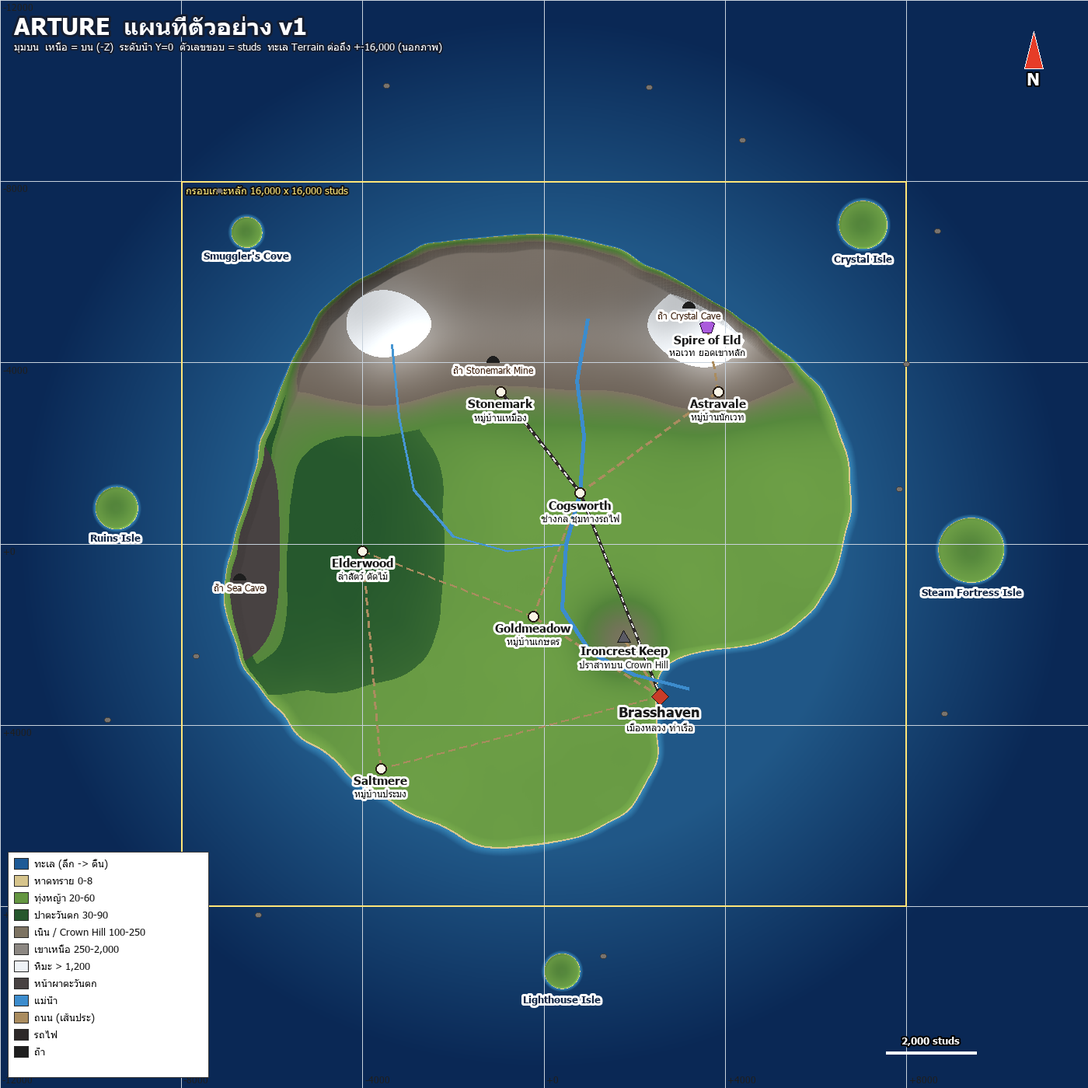
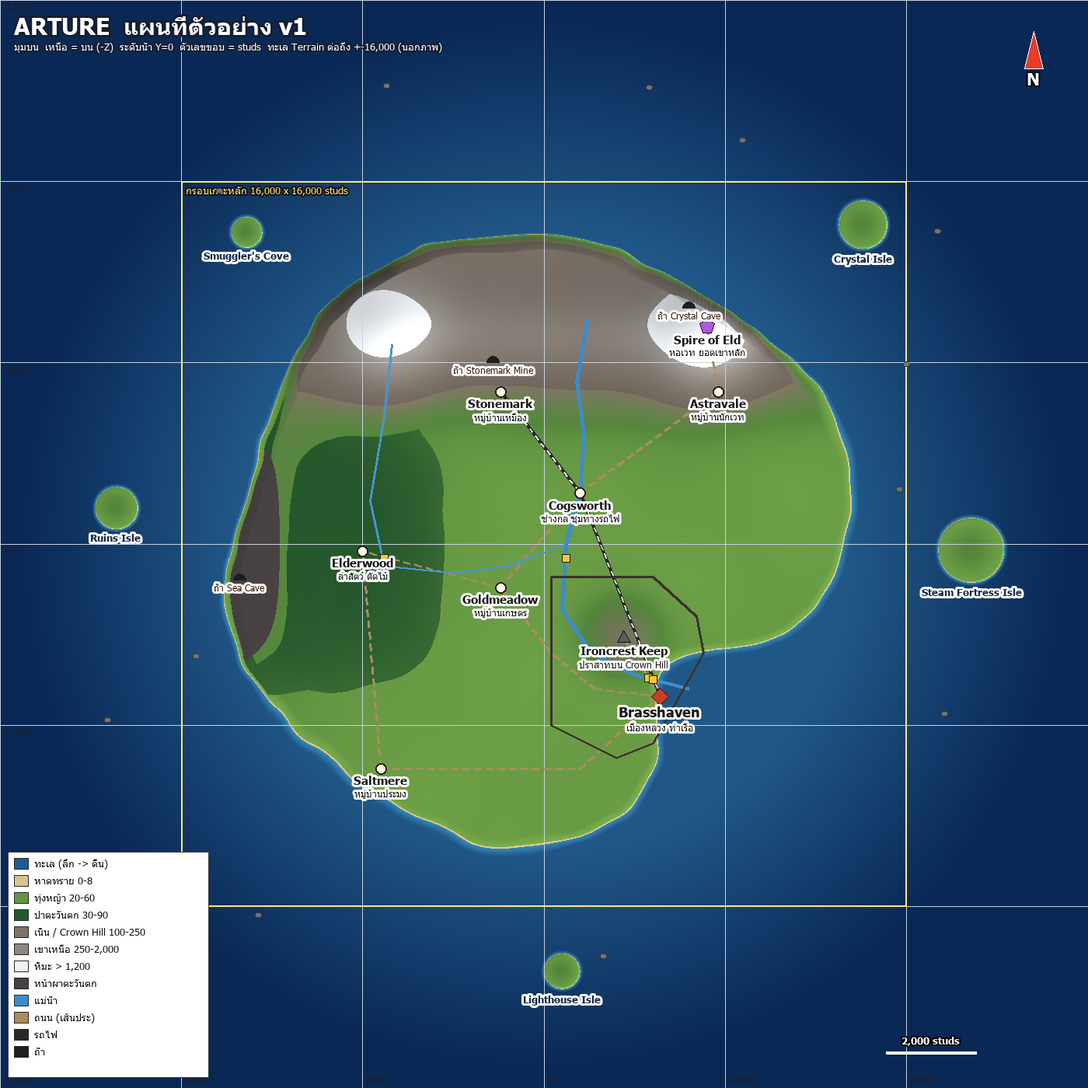
Design spec parts 3-6 (Brasshaven, villages, steam/magic, isles, generator, phases) + layout JSON additions
- world-layout.json: bridges, capital wall/districts, road waypoints, rail, steam, nature, generator params
- render-map.py: draw wall polygon + bridges, support road waypoints
- Goldmeadow moved west (1,100 studs from wall), tributary rerouted past Elderwood
- CLAUDE.md status: all 6 design sections approved

diff --git a/docs/design/render-map.py b/docs/design/render-map.py
@@ -81,12 +81,16 @@ def poly(pts, col, w, dash=None):
             t2 = min(t + on, Ln)
             d.line([(x0 + (x1 - x0) * t / Ln, y0 + (y1 - y0) * t / Ln), (x0 + (x1 - x0) * t2 / Ln, y0 + (y1 - y0) * t2 / Ln)], fill=col, width=w)
             t += on + off
-pos = lambda n: L["places"][n]["pos"]
+pos = lambda n: n if isinstance(n, list) else L["places"][n]["pos"]
 for road in L["roads"]: poly([pos(n) for n in road], (170, 140, 95), 3, dash=(9, 6))
 poly([pos(n) for n in L["railway"]], (45, 40, 40), 4)
 poly([pos(n) for n in L["railway"]], (230, 230, 230), 2, dash=(6, 6))
 poly(L["river_tributary"], (70, 150, 210), 3)
 poly(L["river_main"], (60, 140, 205), 5)
+# city wall polygon + bridges
+wp = L["capital"]["wall"]["polygon"]; poly(wp + [wp[0]], (60, 50, 45), 3)
+for b in L["bridges"]:
+    x, y = px(b["pos"]); d.rectangle((x - 5, y - 5, x + 5, y + 5), fill=(240, 200, 60), outline=(40, 30, 10))
 
 def label(p, txt, size=15, dy=10, bold=False, col=(25, 25, 25)):
     x, y = px(p)

diff --git a/docs/design/02-structures-and-generation.md b/docs/design/02-structures-and-generation.md
@@ -1,0 +1,213 @@
+# แบบส่วนที่ 3 ถึง 6: สิ่งก่อสร้าง ระบบไอน้ำ เวทมนตร์ เกาะ และวิธีเจน (อนุมัติ 2026-09-06)
+
+ต่อจาก `01-world-and-terrain.md` พิกัดทุกจุดอยู่ใน `world-layout.json` (สัดส่วน -1..1, X ตะวันออก, Z ใต้, เหนือ = -Z, คูณ 8,000 เป็น studs)
+แผนที่ตัวอย่าง `map-arture-v1.png` (รันใหม่ด้วย `render-map.py` ทุกครั้งที่แก้ JSON)
+
+## สิ่งที่ปรับจากแบบที่เสนอในแชท (ผู้ใช้สั่งหรือคำนวณจากพิกัดจริง)
+
+| เรื่อง | เดิม | ใหม่ | เหตุผล |
+|---|---|---|---|
+| ความสูงเขา | ยอดหลัก 1,400 หิมะ > 900 | ยอดหลัก 2,000 ยอดรอง 1,500 หิมะ > 1,200 | ผู้ใช้สั่ง "เขาสูงกว่านี้" |
+| ขนาดเมืองหลวง | กำแพง 2,500 × 2,500 บ้าน 120 | กำแพงประมาณ 3,400 × 4,000 บ้าน 250 | ผู้ใช้สั่ง "เมืองใหญ่กว่านี้" |
+| ความทึบป่า | ระยะต้นไม้ 70 รวม 8,000 ต้น | ระยะ 45 รวม 18,000 ต้น | ผู้ใช้สั่ง "ป่าทึบกว่านี้" |
+| ลำน้ำสาขา | ไหลห่าง Elderwood 1,700 studs | ปรับเส้นให้ผ่านข้าง Elderwood 400 studs | โรงเลื่อยกังหันน้ำต้องอยู่ริมน้ำจริง |
+| สะพานหลวง 5 ซุ้ม | แยกอยู่นอกเมืองฝั่งตะวันตก | รวมเป็น Crown Bridge ในเมือง | คำนวณแล้วถนนหลวงจาก Goldmeadow เข้าเมืองโดยไม่ตัดแม่น้ำ (วิ่งเลียบฝั่งตะวันตก) |
+| Goldmeadow | (-0.03, 0.20) ห่างกำแพง 400 studs | (-0.12, 0.12) ห่างกำแพง 1,100 studs | เมืองขยายจนชนหมู่บ้าน |
+| ประตูเมือง | กำหนด 3 แห่ง | คำนวณอัตโนมัติจากจุดที่ถนน รถไฟ แม่น้ำ ตัดกำแพง (ได้ 4 ช่อง) | ตำแหน่งตรงกับถนนจริงเสมอ |
+| ถนน | 5 สาย | เพิ่ม Cogsworth ถึง Brasshaven (ดินอัด ขนานราง) | ให้มีทางบกจากทิศเหนือเข้าเมือง |
+
+---
+
+# ส่วนที่ 3: เมืองหลวง Brasshaven
+
+## โครงเมือง
+
+แม่น้ำสายหลักลอดกำแพงเหนือที่ (0.055, 0.09) ไหลลงใต้แล้วเลี้ยวตะวันออกเฉียงใต้ลงอ่าวที่ (0.40, 0.40) แบ่งเมืองเป็น 2 ฝั่ง
+
+- **ฝั่งตะวันออกเฉียงเหนือ (ที่สูง)** Crown Hill สูง 200 studs เหนือที่ราบ มี Ironcrest Keep บนยอด ลาดลงมาเป็น Crown Plaza เขตราชการ และเขตที่พักเหนือ
+- **ฝั่งตะวันตกเฉียงใต้ (ที่ราบริมอ่าว)** จัตุรัสตลาด เขตที่พักหลัก ท่าเรือ โรงงาน ท่าเรือเหาะ
+
+กำแพงเป็นรูปหลายเหลี่ยม 7 จุด (ดู `capital.wall.polygon`) กว้างประมาณ 3,400 × 4,000 studs ด้านอ่าว (0.44, 0.30) ถึง (0.30, 0.55) เป็นกำแพงกันคลื่นที่แนวน้ำพร้อมหอท่าเรือ 2 หอ และช่องเปิดปากท่า
+
+## เขตและอาคารระบบ
+
+อาคารที่ UI Flow ของระบบเดิมบังคับให้ "เดินไปทำจริง" ทำตัวหนา ทุกเขตปรับพื้น Terrain ให้เรียบตามความสูงจุดกลางเขตก่อนวาง
+
+| เขต (ศูนย์กลาง, รัศมี) | สิ่งก่อสร้าง |
+|---|---|
+| Ironcrest Keep (0.22, 0.26) r 0.05 | กำแพงปราสาท 300 × 300 สูง 40 หอมุม 4 หอ สูง 90 ป้อมกลาง 120 × 120 สูง 110 หอสูงกลาง 160 ท้องพระโรงภายใน ประตูปราสาทหันลง Crown Plaza |
+| Crown Plaza เขตราชการ (0.26, 0.33) r 0.05 | **อาคารรัฐสภา** 160 × 100 สูง 60 โดมทองเหลืองแบบสตีมพังก์มีเฟืองและท่อ **ธนาคารหลวง** 100 × 70 สูง 40 หินมีเสาโรมัน ห้องนิรภัย **ศาลและคุก** 80 × 60 ปีกห้องขัง 6 ห้อง ค่ายทหารรักษาการณ์ |
+| เขตตลาดกลาง (0.32, 0.42) r 0.05 | จัตุรัสใหญ่ 300 × 300 ปูหิน **หอนาฬิกา** ฐาน 40 × 40 สูง 200 หน้าปัดทองเหลือง 4 ด้าน เฟืองโชว์ **ตลาดใหญ่** โรงตลาดมีหลังคา 120 × 60 ล้อมด้วยแผงลอย 24 แผง **หอสมาคมช่าง / สำนักงานสมัครงาน** โรงเตี๊ยม รูปปั้นกลางจัตุรัส (AI mesh) |
+| เขตที่พักอาศัย 3 กลุ่ม (0.18, 0.46) r 0.09 (0.08, 0.18) r 0.07 (0.26, 0.52) r 0.05 | ถนนตารางกว้าง 60 บ้านครึ่งไม้ครึ่งปูน 2 ถึง 3 ชั้น หลังคาจั่วสีสลับ รวม 250 หลัง ลานย่อยมีบ่อน้ำ ตะเกียงแก๊สทองเหลืองริมถนน |
+| เขตท่าเรือและโรงงาน (0.38, 0.40) r 0.07 | ท่าหิน 4 ท่า ยาว 200 เรือใบจอด 4 ลำ โกดัง 6 หลัง ตลาดปลา **โรงงานไอน้ำ** อิฐ 200 × 120 สูง 40 ปล่องควัน 3 ปล่อง สูง 80 (ParticleEmitter ควัน) ท่อภายนอก ล้อเฟืองยักษ์ 2 ล้อ วาล์วปล่อยไอน้ำ **โรงแปรรูป** เรียงแถว 4 หลัง สถานีรถไฟ Brasshaven (ชานชาลา หลังคา หอเก็บน้ำ) |
+| ท่าเรือเหาะ (0.43, 0.29) | หอสูง 260 มีแขนจอด 2 แขน เรือเหาะจอด ลำเรือยาว 160 กระเช้าใต้ท้อง ใบพัด 2 ตัว (AI mesh) บันไดวนขึ้นหอ |
+
+**จุดเกิด** SpawnLocation ที่ลานท่าเรือ (0.38, 0.40) ผู้เล่นเกิดแล้วเห็นเรือเหาะ หอนาฬิกา และปราสาทบนเนินในภาพเดียว
+
+## กำแพง ประตู สะพาน
+
+- กำแพงสูง 30 หนา 8 หอคอยทรงกระบอกทุก 250 studs (รัศมี 14 สูง 45) ทางเดินบนกำแพง
+- ช่องกำแพงคำนวณจากจุดตัดจริง: **ประตูตะวันตก** (ถนน Goldmeadow ที่ประมาณ (0.02, 0.30)) **ประตูใต้** (ถนน Saltmere ที่กำแพงใต้) **ประตูเหนือ** (ถนนและรางจาก Cogsworth ที่ประมาณ (0.19, 0.09)) **ซุ้มแม่น้ำ** (แม่น้ำลอดกำแพงเหนือ (0.055, 0.09) ซุ้มโค้งพร้อมตะแกรงเหล็ก)
+- **Crown Bridge** (0.289, 0.370) หิน 5 ซุ้มโค้ง กว้าง 30 เชื่อมตลาดกับ Crown Plaza เป็นสะพานใหญ่สุดของเกาะ
+- **Iron Rail Bridge** (0.302, 0.374) โครงเหล็กถักขนาน Crown Bridge ห่าง 100 studs ให้เห็นยุคกลางกับสตีมพังก์เคียงกัน
+
+## ชิ้นที่ใช้ AI mesh (generate_mesh)
+
+เรือเหาะ หัวรถจักร รูปปั้นกลางจัตุรัส เท่านั้น ส่วนอื่นทั้งหมดเป็น Part ประกอบ ทำเป็นขั้นสุดท้าย (ข้อ 10) โดยมี Part แทนที่ (placeholder) ไว้ก่อน
+
+---
+
+# ส่วนที่ 4: หมู่บ้าน ถนน สะพาน ระบบไอน้ำ เวทมนตร์ เกาะเล็ก ธรรมชาติ
+
+## หมู่บ้าน 6 แห่ง
+
+แต่ละแห่งกว้าง 400 ถึง 600 studs บ้าน 8 ถึง 15 หลัง ปรับพื้นเรียบใต้ทุกอาคาร ถนนดินในหมู่บ้าน ป้ายชื่อหมู่บ้าน (Part + SurfaceGui) ที่ทางเข้า
+
+| หมู่บ้าน (พิกัด) | จุดเด่น |
+|---|---|
+| Goldmeadow (-0.12, 0.12) เกษตร | แปลงพืชเป็นแถวรอบ (-0.02, 0.06) รัศมี 0.10 คร่อมแม่น้ำ กังหันลม 2 ตัว โรงนา ยุ้งข้าว ปั๊มน้ำไอน้ำที่ปลายท่อจาก Brasshaven รั้วไม้ |
+| Stonemark (-0.12, -0.42) เหมือง | ปากเหมืองที่ (-0.14, -0.50) รางรถแร่และรถแร่ ปลายทางรถไฟ (สถานี) โรงถลุงมีปล่อง กองแร่ |
+| Elderwood (-0.50, 0.02) ล่าสัตว์ ตัดไม้ | โรงเลื่อยกังหันน้ำบนลำน้ำสาขาที่ (-0.46, 0.0) บ้านพักพราน กระท่อมซุง กองซุง เป้าธนู |
+| Saltmere (-0.45, 0.62) ประมง | สะพานปลาไม้ 3 ท่า เรือประมง 5 ลำ ตลาดปลา ราวตากปลา ประภาคารเล็กสูง 40 |
+| Astravale (0.48, -0.42) นักเวท | บ้านหินหลังคาน้ำเงิน คริสตัลลอย 8 ก้อน สถานีฐานลิฟต์ไอน้ำ (โรงหม้อน้ำ) หอสังเกตดาว |
+| Cogsworth (0.10, -0.14) ช่างกล | คร่อมแม่น้ำ สะพานกลไกยกได้ (ถนน + รถไฟ) หอเครื่องจักรสองข้างสะพาน โรงซ่อม อาคารประดับเฟือง หอเก็บน้ำ สถานีรถไฟ |
+
+## ถนน
+
+วาดจากรายการ `roads` (ชื่อสถานที่หรือจุดผ่าน) เป็นเส้นตรงต่อกัน ทำโดยทาวัสดุบนผิว Terrain ตามความสูงพื้นจริง
+
+| ประเภท | สาย | วัสดุ | กว้าง |
+|---|---|---|---|
+| ถนนหลวง | Brasshaven ถึง Goldmeadow ถึง Cogsworth ถึง Stonemark | Cobblestone | 24 |
+| ถนนอื่น | Elderwood, Saltmere, Astravale, Spire, Cogsworth ถึง Brasshaven, ถนนขึ้น Keep | Ground | 16 |
+
+ในเมืองหลวงใช้ถนนตารางของเขตแทน ถนนระหว่างเมืองหยุดที่ประตู
+
+## สะพาน 5 แห่ง (จุดตัดคำนวณจากพิกัดจริง)
+
+| สะพาน | พิกัด | แบบ |
+|---|---|---|
+| Crown Bridge | (0.289, 0.370) | หิน 5 ซุ้มโค้ง ในเมือง |
+| Iron Rail Bridge | (0.302, 0.374) | โครงเหล็กถัก รถไฟ |
+| Cogsworth Drawbridge | (0.10, -0.14) | เหล็กยกได้ ถนน + ราง หอเครื่องจักรสองข้าง (ยังไม่ขยับ) |
+| Goldmeadow Footbridge | (0.06, 0.04) | ไม้แผ่น ราวไม้ ระหว่างแปลงนาสองฝั่ง เหนือกำแพงเมือง |
+| Elderwood Log Bridge | (-0.44, 0.04) | ไม้ซุง ถนน Elderwood ถึง Goldmeadow ข้ามลำน้ำสาขาที่โรงเลื่อย |
+
+## ระบบไอน้ำทั่วเกาะ
+
+- **รถไฟ** Stonemark ถึง Cogsworth ถึง Brasshaven รางคู่ (Part) บนหมอนไม้ ตามภูมิประเทศ (ยกคันดินหรือตัดเนินด้วย Terrain ให้ความชันไม่เกิน 10%) สถานี 3 แห่ง หัวรถจักร (AI mesh, placeholder เป็น Part) และตู้ 3 ตู้จอดที่ Brasshaven รถไฟยังไม่วิ่ง
+- **ลิฟต์ไอน้ำ** จาก Astravale (0.48, -0.42) ขึ้น Spire of Eld (0.45, -0.60) รางเอียงตามหน้าเขา เสาค้ำทุก 100 studs โรงหม้อน้ำที่ฐาน กระเช้าทองเหลือง 1 ตัวจอดที่ฐาน
+- **ท่อไอน้ำ** ทองเหลือง (Cylinder) เส้นผ่านศูนย์กลาง 3 บนเสาหินทุก 40 studs เลียบถนนหลวงจากโรงงาน Brasshaven ถึงปั๊ม Goldmeadow วาล์วและเกจวัดทุก 200 studs
+
+## เวทมนตร์
+
+- **Spire of Eld** บนยอดเขาหลัก (0.45, -0.60) ฐานหิน 60 × 60 สูง 220 ทางลาดวนขึ้นรอบหอ ยอดมีคริสตัลใหญ่ (Neon + PointLight) ลอยเหนือหอ 20 studs และคริสตัลเล็ก 6 ก้อนล้อมเป็นวง
+- คริสตัลเรืองแสงในถ้ำคริสตัล ที่ Astravale และบน Crystal Isle ลอยสูง 20 ถึง 60 studs (Anchored ในอากาศ การหมุนลอยทำทีหลัง)
+
+## เกาะเล็ก 5 เกาะ
+
+| เกาะ (พิกัด, รัศมี) | สิ่งก่อสร้าง |
+|---|---|
+| Crystal Isle (0.88, -0.88) r 0.08 | คริสตัลลอยใหญ่ 5 ก้อน ซุ้มโค้งพัง สระเรืองแสง (Terrain น้ำ + Neon ใต้น้ำ) |
+| Steam Fortress Isle (1.18, 0.02) r 0.10 | ป้อมเหล็กร้าง กำแพงเหล็กสนิม หม้อน้ำ 3 ถัง ปืนใหญ่ 6 กระบอก ท่าเทียบเรือ |
+| Lighthouse Isle (0.05, 1.18) r 0.06 | ประภาคารสูง 120 (ไฟบนยอดคงที่) กระท่อมผู้ดูแล ท่าเรือ |
+| Ruins Isle (-1.18, -0.10) r 0.07 | เสาหินโบราณ 12 ต้น วิหารพัง รูปปั้นหัก |
+| Smuggler's Cove (-0.82, -0.86) r 0.05 | อ่าวซ่อน กระท่อม 4 หลัง ท่าเรือไม้ ถังไม้ เรือจอด 2 ลำ |
+
+โขดหิน 12 ก้อน สุ่มด้วย seed 42 ในวงรัศมี 0.95 ถึง 1.40 หลบเกาะธีม
+
+## ธรรมชาติ
+
+| สิ่ง | กฎการวาง |
+|---|---|
+| ป่าตะวันตก | ต้นไม้ระยะ 45 studs (สุ่มเลื่อนตำแหน่ง) สน (กรวย) 60% โอ๊ก (กลม) 40% |
+| ที่ราบ | ต้นไม้กระจายระยะ 250 เว้นถนน หมู่บ้าน เมือง แปลงนา |
+| ภูเขา | สนใต้ระดับ 1,200 ระยะ 120 |
+| หาด | มะพร้าวระยะ 100 บนทราย |
+| ทั่วไป | พุ่มไม้และก้อนหินกระจาย |
+| งบรวม | ต้นไม้ 18,000 ต้น (2 Part ต่อต้น) |
+
+---
+
+# ส่วนที่ 5: สถาปัตยกรรมตัวเจน
+
+## หลักการ
+
+1. **แหล่งความจริงชุดเดียว** `world-layout.json` ถูกฝังเข้าโค้ด Luau ตอนส่ง ทั้งแผนที่ Python และแมพในเกมอ่านค่าเดียวกัน
+2. **งานยาวไม่ค้าง Studio** ทุกขั้นรันใน `task.spawn` คืนค่าทันที ทำทีละก้อนแล้ว `task.wait()` เขียนความคืบหน้าเป็น Attribute `Progress` และ `Status` (`running` / `done` / `error: ...`) บน `workspace.WOLD` ตัว runner อ่านทุก 5 วินาที
+3. **รันซ้ำได้** แต่ละขั้นสร้างของใน `workspace.WOLD.<ชื่อขั้น>` รันใหม่ลบ Folder เดิมก่อน ขั้น Terrain เริ่มด้วย `Terrain:Clear()`
+4. **กำหนดผลได้** noise ใช้ `math.noise` กับ offset คงที่ การสุ่มใช้ `Random.new(seed)` รันกี่รอบก็ได้ผลเดิม
+5. **ย่อส่วนก่อน** `SCALE = 0.125` ทำเกาะ 2,000 studs เจน 1 ถึง 2 นาที ปรับรูปเกาะจนพอใจแล้วรัน `SCALE = 1` (คาด 10 ถึง 20 นาที) อาคารไม่ย่อ ทดสอบขนาดจริงได้เพราะไม่ขึ้นกับขนาดเกาะ
+6. **วางบนพื้นจริง** ตัวสร้างทุกตัวถาม `heightAt(x, z)` (ฟังก์ชันความสูงเดียวกับที่สร้าง Terrain รวมหุบแม่น้ำ) แล้ว `flattenPad` ปรับ Terrain ใต้ฐานเป็นลานเรียบก่อนวาง
+
+## โครงไฟล์
+
+| ไฟล์ | หน้าที่ |
+|---|---|
+| `mapgen/lib.lua` | PARAMS (SCALE, HALF, seed), LAYOUT (ฝังจาก JSON), จานสี, `heightAt`, `isLand`, `riverDepthAt`, ตัวเขียน Terrain แบบก้อน 256 × 256 studs ด้วย `WriteVoxels`, ตัวสร้างชิ้นส่วน (box, cylinder, house, tower, wallSegment, bridge แต่ละแบบ, pipe, gear, tree, crystal, pier, chimney), `flattenPad`, `progress`, `selfCheck` |
+| `mapgen/00_setup.lua` | ลบ Baseplate และของทดสอบ สร้าง `workspace.WOLD` และ Folder ย่อย `StreamingEnabled = true` (MinRadius 512 TargetRadius 2048) Lighting + Atmosphere หมอกจบที่ 24,000 แผ่นทะเล Part 2,048 × 2,048 ปูจาก ±16,000 ถึง ±32,000 (ประมาณ 780 แผ่น CanCollide เปิด) |
+| `mapgen/10_terrain.lua` | `Terrain:Clear()` แผ่นดินตามฟังก์ชันความสูง ทะเลและพื้นทะเลด้วย `FillBlock` ก้อนใหญ่ถึง ±16,000 ภูเขา หิมะ Crown Hill หน้าผา เกาะเล็ก 5 เกาะ โขดหิน 12 ก้อน |
+| `mapgen/11_water_caves.lua` | หุบแม่น้ำ (อยู่ในฟังก์ชันความสูงแล้ว) เติมน้ำแม่น้ำและลำน้ำสาขาตามระดับที่ลดลงจากต้นน้ำถึงปากน้ำ ถ้ำ 3 แห่งเจาะด้วย `FillBall` อากาศต่อกันตามเส้น โถงใหญ่ คริสตัล (Neon + PointLight) สายแร่ (Part โลหะฝังผนัง) ซากเรือในถ้ำทะเล |
+| `mapgen/20_roads_bridges.lua` | ทาวัสดุถนนบนผิว Terrain ตาม `roads` สะพาน 5 แห่งตาม `bridges` |
+| `mapgen/30_capital.lua` | Brasshaven ทั้งหมดตามส่วนที่ 3 รวมกำแพง ประตูคำนวณจากจุดตัด SpawnLocation |
+| `mapgen/40_villages.lua` | หมู่บ้าน 6 แห่ง แปลงนา ป้ายชื่อ |
+| `mapgen/50_steam_magic.lua` | ราง สถานี 3 แห่ง รถไฟจอด ลิฟต์ไอน้ำ ท่อไอน้ำ Spire of Eld คริสตัลลอย |
+| `mapgen/60_islands.lua` | สิ่งก่อสร้างบน 5 เกาะ |
+| `mapgen/70_nature.lua` | ต้นไม้ พุ่มไม้ ก้อนหิน ตามกฎในส่วนที่ 4 เป็นชุดละ 500 ชิ้นแล้วพัก |
+| `mapgen/90_verify.lua` | self-check ทั้งแมพ และพิมพ์รายการมุมกล้องสำหรับ `screen_capture` |
+| `tools/run-luau.js` | `node tools/run-luau.js mapgen/10_terrain.lua [--scale 0.125]` รวม JSON + lib + ไฟล์ขั้น ส่ง `execute_luau` แล้ววนอ่าน Attribute จนจบ พิมพ์ความคืบหน้า และดึง `get_console_output` เมื่อ error |
+
+## การตรวจงานหลังทุกขั้น
+
+1. `get_console_output` ต้องไม่มี error จากขั้นนั้น
+2. `selfCheck` ของขั้น: ตำแหน่งสถานที่ทุกแห่งเป็นพื้นดิน (ไม่ใช่ Water หรือ Air), Folder ของขั้นมีชิ้นส่วนมากกว่า 0, ไม่มีชิ้นส่วนต่ำกว่า Y = -100, จุดบนเส้นแม่น้ำ 20 จุดเป็น Water, SpawnLocation อยู่เหนือพื้น, จำนวนชิ้นรวมไม่เกิน 70,000
+3. `screen_capture` จากรายการมุมกล้องท้ายเอกสาร ผมดูรูปแล้วแก้เอง ไม่ต้องให้ผู้ใช้แคป
+4. ผ่านแล้ว `git commit` ทันที
+
+## เพดานและค่าประมาณ
+
+| สิ่ง | ค่า |
+|---|---|
+| ชิ้นส่วนรวม | ประมาณ 60,000 ถึง 70,000 (ต้นไม้ 36,000 บ้าน 4,000 ที่เหลือกำแพง สะพาน ราง ท่อ) |
+| WriteVoxels เกาะหลัก | ประมาณ 3,900 ก้อนที่ SCALE 1 |
+| เวลาเจน Terrain ขนาดจริง | 10 ถึง 20 นาที (วัดจริงในข้อ 0) |
+| Terrain น้ำ | ถึง ±16,000 เท่านั้น ไกลกว่านั้นเป็นแผ่น Part |
+
+---
+
+# ส่วนที่ 6: ลำดับขั้นการเจน (ขออนุมัติทีละข้อก่อนลงมือ)
+
+| ข้อ | ขั้น | เกณฑ์ผ่าน |
+|---|---|---|
+| 0 | ทดสอบความเป็นไปได้ | `task.spawn` ทำงานต่อหลัง `execute_luau` คืนค่า, วัดเวลา WriteVoxels ก้อน 256 × 256 จำนวน 60 ก้อน, `run-luau.js` วนอ่านความคืบหน้าได้ ของทดสอบลบทิ้ง |
+| 1 | ตั้งค่าโลก (`00_setup`) | Baseplate หาย มี `workspace.WOLD` Streaming เปิด แผ่นทะเลไกลครบ หมอกทำงาน ไม่มี error |
+| 2a | Terrain ย่อส่วน 1/8 | ภาพมุมบนตรงกับ `map-arture-v1.png` (อ่าว SE ป่า W เขา N เกาะ 5) ผู้ใช้อนุมัติรูปเกาะ |
+| 2b | Terrain ขนาดจริง | เหมือน 2a ที่ SCALE 1, self-check ตำแหน่งทุกแห่งเป็นพื้นดิน, ยอดเขาหลักสูง 1,900 ถึง 2,100 |
+| 3 | น้ำและถ้ำ (`11`) | แม่น้ำมีน้ำต่อเนื่องจากต้นน้ำถึงอ่าว ถ้ำ 3 แห่งเดินเข้าได้ คริสตัลส่องแสง |
+| 4 | ถนนและสะพาน (`20`) | ถนนต่อเนื่องถึงทุกหมู่บ้าน สะพาน 5 แห่งเชื่อมสองฝั่งเดินข้ามได้ |
+| 5 | Brasshaven (`30`) | ทุกเขตและอาคารระบบครบตามตาราง กำแพงปิดครบ ประตูตรงถนน เกิดที่ท่าเรือแล้วเห็นเรือเหาะ หอนาฬิกา ปราสาท |
+| 6 | หมู่บ้าน 6 แห่ง (`40`) | ทุกหมู่บ้านมีจุดเด่นตามตาราง บ้านไม่ลอยไม่จม |
+| 7 | ไอน้ำและเวทมนตร์ (`50`) | รางต่อเนื่อง 3 สถานี ลิฟต์ถึงยอด ท่อถึงปั๊ม Spire มีคริสตัล |
+| 8 | เกาะเล็ก (`60`) | 5 เกาะมีสิ่งก่อสร้างตามตาราง |
+| 9 | ธรรมชาติ (`70`) | ต้นไม้ประมาณ 18,000 ไม่ทับถนน อาคาร น้ำ ชิ้นรวมไม่เกิน 70,000 |
+| 10 | ตรวจรวมและส่งมอบ | `90_verify` ผ่านทั้งหมด ภาพทุกมุม เจน AI mesh 3 ชิ้นแทน placeholder อัปเดต CLAUDE.md บันทึกความจำ commit |
+
+หลังข้อ 10: เริ่มออกแบบรอบถัดไป NPC และวัตถุโต้ตอบที่ผูกกับระบบเดิม (รัฐสภา ธนาคาร ตลาด อาชีพ กฎหมาย)
+
+## สิ่งที่ตั้งใจยังไม่ทำในรอบนี้
+
+รถไฟวิ่ง สะพานยกจริง ลิฟต์เคลื่อน คริสตัลหมุนลอย ไฟประภาคารหมุน เรือแล่น ภายในอาคารละเอียด (มีแค่พื้น ผนัง ประตู) NPC ทุกชนิด ระบบเกม ป้ายสองภาษา
+
+## รายการมุมกล้องตรวจงาน (studs)
+
+| ชื่อ | ตำแหน่งกล้อง | มองไป |
+|---|---|---|
+| overview | (0, 9000, 0) | (0, 0, 0) |
+| brasshaven_from_bay | (4800, 400, 4800) | (2400, 100, 3000) |
+| keep | (2400, 600, 2900) | (1760, 250, 2080) |
+| harbor_spawn | (3300, 120, 3600) | (3040, 20, 3200) |
+| spire | (3200, 2600, -5600) | (3600, 2100, -4800) |
+| หมู่บ้านแต่ละแห่ง | พิกัดหมู่บ้าน + (300, 200, 300) | พิกัดหมู่บ้าน |
+| สะพานแต่ละแห่ง | พิกัดสะพาน + (150, 80, 150) | พิกัดสะพาน |
+| ปากถ้ำแต่ละแห่ง | พิกัดถ้ำ + (120, 60, 120) | พิกัดถ้ำ |
+| เกาะแต่ละเกาะ | พิกัดเกาะ + (600, 400, 600) | พิกัดเกาะ |

diff --git a/CLAUDE.md b/CLAUDE.md
@@ -9,10 +9,12 @@ Place ใน Roblox Studio ชื่อ `WOLD Arture` (บัญชี phumapant
 2. ออกแบบแมพ NPC วัตถุ ตามธีมใหม่ เป็นลำดับขั้น
 3. เจนของเหล่านั้นเข้า Studio ตามลำดับ (ผ่าน Studio MCP หรือปลั๊กอินใน `plugins/`)
 
-**สถานะ (2026-09-06):** ตั้งค่าเครื่องมือครบและทดสอบแล้ว ผู้ใช้ได้รับแบบ **ส่วนที่ 1 (ภาพรวมโลก พิกัด ชื่อ) และส่วนที่ 2 (Terrain)** แล้ว
-บันทึกไว้ที่ `docs/design/01-world-and-terrain.md` พิกัดทุกจุดอยู่ใน `docs/design/world-layout.json` (สัดส่วน -1..1, X ตะวันออก, Z ใต้)
-แผนที่ตัวอย่างมุมบน `docs/design/map-arture-v1.png` วาดด้วย `render-map.py` (แก้ JSON แล้วรันใหม่ได้) ส่วนถัดไปที่ยังไม่ทำ: สิ่งก่อสร้าง/เมือง NPC วัตถุ และลำดับการเจน
-**ให้ตัวเจน Luau อ่านตำแหน่งจาก world-layout.json ชุดเดียวกัน** เพื่อให้แมพในเกมตรงกับแผนที่
+**สถานะ (2026-09-06):** เครื่องมือครบ ผู้ใช้อนุมัติแบบแมพครบทั้ง 6 ส่วนแล้ว (โลก/ชื่อ, Terrain, Brasshaven, หมู่บ้าน+ไอน้ำ+เวท+เกาะ, สถาปัตยกรรมตัวเจน, ลำดับขั้น 0-10)
+- `docs/design/01-world-and-terrain.md` ส่วน 1-2 และ `docs/design/02-structures-and-generation.md` ส่วน 3-6 (มีตารางสิ่งที่ปรับจากแชท เกณฑ์ผ่านแต่ละขั้น มุมกล้องตรวจงาน)
+- `docs/design/world-layout.json` = แหล่งความจริงชุดเดียวของพิกัด (สัดส่วน -1..1, X ตะวันออก, Z ใต้) ตัวเจน Luau ต้องอ่านไฟล์นี้ ห้ามฮาร์ดโค้ดพิกัด
+- `docs/design/map-arture-v1.png` วาดด้วย `render-map.py` (รันใน docs/design ด้วย pyembed python + PYTHONUTF8=1) แก้ JSON แล้วรันใหม่ทุกครั้ง
+- ขั้นถัดไป: ผู้ใช้ตรวจเอกสาร 02 → เขียนแผน (writing-plans) → ข้อ 0 ทดสอบความเป็นไปได้ → เจนทีละขั้น ขออนุมัติทุกขั้น
+- ตัวเจนจะอยู่ใน `mapgen/*.lua` + `tools/run-luau.js` (ยังไม่มี)
 ผู้ใช้สั่งว่า "อ่านประวัติสนทนาเดิมทั้งหมด ใช้เป็นบริบท แต่อย่าเพิ่งสรุปจนกว่าจะถาม"
 หมายเหตุ: ไฟล์ประวัติมีแค่ส่วนวิเคราะห์ UI 16 หน้าจอ + UI Flow รายละเอียดระบบเศรษฐกิจ/รัฐฉบับเต็มยังไม่มีในไฟล์ ถ้าผู้ใช้หามาได้จะอยู่ใน `docs/`
 
